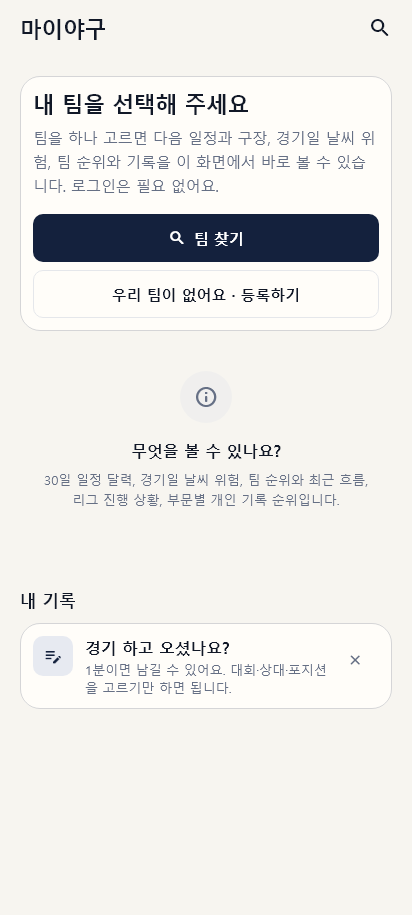
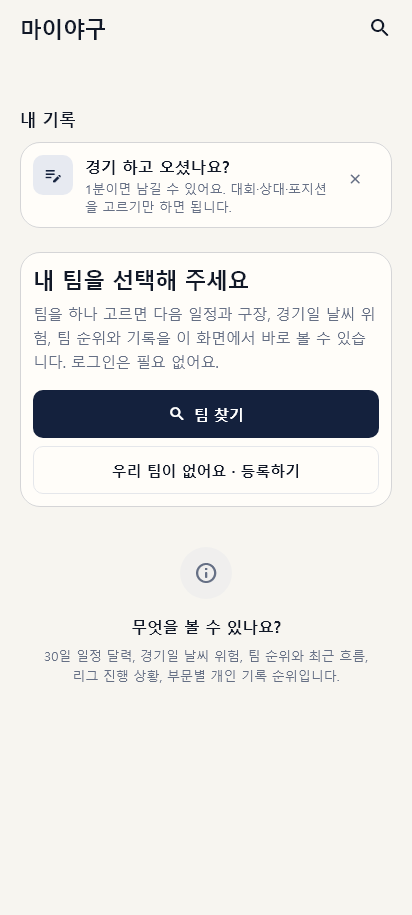
Put 내 기록 first on 마이야구, ahead of the team-picker
A player who has not followed a team saw two cards about choosing one
before reaching the thing she opened the screen to do. That is the third
instance today of the same defect -- the most-used thing placed behind
something the user has already declined -- after the standings entry
point and the mislabelled 내 팀 순위 card.

With a team followed the dashboard is left alone: there the next fixture
leads, which is the time-sensitive question, and 내 기록 already sits
ahead of standings and 개인 기록.

Found by reading the golden, not by a test; goldens regenerated.

Built by Sonnet, reviewed and verified by Opus (main session).
Gate: 12/12 PASS.

diff --git a/lib/features/my_baseball/my_baseball_screen.dart b/lib/features/my_baseball/my_baseball_screen.dart
@@ -101,11 +101,24 @@ class _EmptySetup extends ConsumerWidget {
     final c = WbTheme.of(context);
     // No overall horizontal padding here (unlike the old version of this
     // screen): `GameLogModule`'s children apply their own `WbSpace.screen`
-    // gutter, matching the followed-team branch's `ListView`. The two
-    // existing blocks below apply the same gutter explicitly instead.
+    // gutter, matching the followed-team branch's `ListView`. The other
+    // blocks below apply the same gutter explicitly instead.
     return ListView(
       padding: const EdgeInsets.symmetric(vertical: WbSpace.screen),
       children: <Widget>[
+        // 내 기록 leads here, ahead of the 팀 선택 card. A player who just
+        // finished a game opened this screen to log it, not to be asked
+        // again about a team she has already chosen not to follow. With a
+        // team followed the dashboard still leads with the next fixture
+        // (`_NextGameBlock` in `MyBaseballScreen.build`): that is the one
+        // time-sensitive question a player with a followed team is likely
+        // asking, and 내 기록 already sits ahead of standings/리그 현황/개인
+        // 기록 there, which is as far forward as a "what's next" screen
+        // should push it.
+        if (showGameLog) ...<Widget>[
+          const GameLogModule(),
+          const SizedBox(height: WbSpace.xl),
+        ],
         Padding(
           padding: const EdgeInsets.symmetric(horizontal: WbSpace.screen),
           child: WbCard(
@@ -152,6 +165,9 @@ class _EmptySetup extends ConsumerWidget {
           ),
         ),
         const SizedBox(height: WbSpace.lg),
+        // Describes the dashboard a chosen team unlocks, so it reads best
+        // directly under the card that offers to choose one — not above
+        // 내 기록, which is not what this text is describing.
         Padding(
           padding: const EdgeInsets.symmetric(horizontal: WbSpace.screen),
           child: WbEmptyState(
@@ -163,10 +179,6 @@ class _EmptySetup extends ConsumerWidget {
                 '리그 진행 상황, 부문별 개인 기록 순위입니다.',
           ),
         ),
-        if (showGameLog) ...<Widget>[
-          const SizedBox(height: WbSpace.xl),
-          const GameLogModule(),
-        ],
       ],
     );
   }
